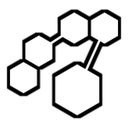
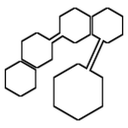
해킹 툴 사용 이모지 테두리를 얇게(원래 느낌 유지), hackuse_v3로 새로 등록

Changed region(s): [[0.0312, 0.0312, 0.9688, 0.9688]]

diff --git a/handlers/게임/해킹툴.js b/handlers/게임/해킹툴.js
@@ -17,7 +17,7 @@ const HACK_TOOL_NAME = '해킹 툴';
 const EMOJI_DIR = path.join(__dirname, '..', '..', 'assets', '이모지');
 const EMOJIS = {
   tool: { name: 'hacktool_v2', file: 'hacktool.png', fallback: '🛠', id: null }, // 아이템 자체(글자 속)
-  use: { name: 'hackuse_v2', file: 'hackuse.png', fallback: '🛠', id: null },    // 꽝 확인 메시지의 '사용' 버튼
+  use: { name: 'hackuse_v3', file: 'hackuse.png', fallback: '🛠', id: null },    // 꽝 확인 메시지의 '사용' 버튼
 };
 const EMOJI_NAME = EMOJIS.tool.name;
 const EMOJI_FILE = path.join(EMOJI_DIR, EMOJIS.tool.file);

diff --git a/README.md b/README.md
@@ -140,7 +140,7 @@ Arcade_BOT/
 │  └─ realm_roster.json       # 길드별 마크(렐름) 승인 명단·검토 대기 신청·명단 메시지 ID
 ├─ assets/                   # 임베드에 첨부하는 이미지 (마크 신청서 썸네일 mc_realm_thumbnail.webp)
 │  ├─ 이모지/hacktool.png     # 해킹 툴 앱 이모지 원본(봇 시작 때 hacktool_v2 로 등록, 실패하면 🛠)
-│  ├─ 이모지/hackuse.png      # 룰렛 꽝 확인 메시지 '사용' 버튼 이모지(hackuse_v2, 밝은 테마에서도 보이게 검은 테두리)
+│  ├─ 이모지/hackuse.png      # 룰렛 꽝 확인 메시지 '사용' 버튼 이모지(hackuse_v3, 밝은 테마에서도 보이게 얇은 검은 테두리)
 └─ env                       # 환경변수 파일 (gitignore, 아래 참고)
 ```
 
